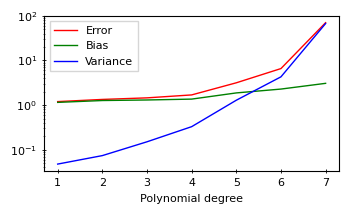
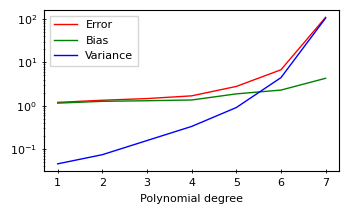
Ran src and project1 in their entirety

diff --git a/project1/src.py b/project1/src.py
@@ -87,7 +87,7 @@ class Regression:
 
     z_data : array_like, default: None
         If the function describing the data is 2D, the z_data parameter describe
-        the data along the z axis. 
+        the data along the z axis.
     '''
 
     def __init__(self, x_data, y_data, z_data=None):
@@ -420,10 +420,10 @@ class Regression:
         ax.plot(degree, error, label='Error', color='red')
         ax.plot(degree, bias, label='Bias', color='green')
         ax.plot(degree, variance, label='Variance', color='blue')
+        ax.set_xlabel('Polynomial degree')
         ax.set_yscale(scale)
         ax.legend()
 
-        ax.set_xlabel('Polynomial degree')
         fig.tight_layout()
         fig.savefig('figures/' + filename + '.png', bbox_inches='tight')
         fig.savefig('figures/' + filename + '.pdf', bbox_inches='tight')
@@ -481,6 +481,7 @@ class Regression:
                 y_pred_OLS = X_test @ beta_OLS 
                 scores_OLS[i, k] = np.sum((y_pred_OLS - y_test)**2) / np.size(y_pred_OLS)
 
+                # Sklearn's OLS results
                 X_sklearn = poly.fit_transform(X)
                 lin = LinearRegression(fit_intercept=False)
                 MSE_OLS_sklearn = cross_val_score(lin, X_sklearn, y, scoring='neg_mean_squared_error', cv=KFold_sklearn)
@@ -498,10 +499,12 @@ class Regression:
                 y_pred_Ridge = X_test @ beta_Ridge
                 scores_Ridge[l, k] = np.sum((y_pred_Ridge - y_test)**2) / np.size(y_pred_Ridge)
 
+                # Sklearn's Ridge results
                 ridge = Ridge(alpha=lambdas[l])
                 MSE_Ridge_sklearn = cross_val_score(ridge, X_sklearn, y, scoring='neg_mean_squared_error', cv=KFold_sklearn)
                 est_MSE_Ridge_sklearn[l] = np.mean(-MSE_Ridge_sklearn)
 
+                # Sklearn' Lasso results
                 lasso = Lasso(lambdas[l])
                 y_pred_Lasso = lasso.fit(X_train, y_train).predict(X_test)
                 scores_Lasso[l, k] = np.sum((y_pred_Lasso - y_test)**2) / np.size(y_pred_Lasso)
@@ -517,16 +520,16 @@ class Regression:
         fig, (ax1, ax2) = plt.subplots(2, 1, figsize=set_size(subplot=(2, 1)))
 
         ax1.set_title(f'{n_kfolds} KFolds')
-        ax1.plot(degrees, est_MSE_OLS, color='k', label=r'KFold$_\mathrm{OLS}$')
-        ax1.plot(degrees, est_MSE_OLS_sklearn, 'r--', label=r'Cross val. score')
+        ax1.plot(degrees, est_MSE_OLS, color='k', label=r'OLS')
+        ax1.plot(degrees, est_MSE_OLS_sklearn, 'k--')
         ax1.set_xlabel('Polynomial degree')
         ax1.set_yscale('log')
         ax1.legend()
 
-        ax2.plot(np.log10(lambdas), est_MSE_Ridge, color='k', label=r'KFolds$_\mathrm{Ridge}$')
-        ax2.plot(np.log10(lambdas), est_MSE_Ridge_sklearn, 'r--', label=r'Cross val. score$_\mathrm{Ridge}$')
-        ax2.plot(np.log10(lambdas), est_MSE_Lasso, color='b', label=r'KFolds$_\mathrm{Lasso}$')
-        ax2.plot(np.log10(lambdas), est_MSE_Lasso_sklearn, 'g--', label=r'Cross val. score$_\mathrm{Lasso}$')
+        ax2.plot(np.log10(lambdas), est_MSE_Ridge, color='r', label=r'Ridge')
+        ax2.plot(np.log10(lambdas), est_MSE_Ridge_sklearn, 'r--')
+        ax2.plot(np.log10(lambdas), est_MSE_Lasso, color='b', label=r'Lasso')
+        ax2.plot(np.log10(lambdas), est_MSE_Lasso_sklearn, 'b--')
         ax2.set_xlabel(r'$\log_{10}\lambda$')
         ax2.legend()
 
@@ -569,14 +572,14 @@ def frankes_function(x, y, add_noise=True):
     
 if __name__ == '__main__':
     np.random.seed(2018)
-    n = 100
+    n = 40
     x = np.linspace(-3, 3, n).reshape(-1, 1)
     y = np.exp(-x**2) + 1.5 * np.exp(-(x - 2)**2) + np.random.normal(0, 0.1, x.shape)
 
     fit = Regression(x, y)
     fit.OLS(20, identity_test=True)
     fit.plot_evolution('OLS', 'test')
-    fit.bias_variance_tradeoff(max_degree=15, n_bootstraps=100, data_dim=1)
+    fit.bias_variance_tradeoff(max_degree=13, n_bootstraps=100, data_dim=1)
     plt.show()
 
     # fig = plt.figure(figsize=(8, 6))

diff --git a/project1/project1.py b/project1/project1.py
@@ -11,11 +11,11 @@ X, Y = np.meshgrid(x, y)
 z = frankes_function(x, y)
 
 reg = Regression(x, y, z)
-# reg.OLS(5)
-# reg.plot_evolution('OLS', 'franke-test')
-# reg.ridge(-4, 4, 5, 1000)
-# reg.plot_evolution('ridge', 'franke-test')
-# reg.plot_evolution('lasso', 'franke-test')
-# reg.bias_variance_tradeoff(max_degree=7, n_bootstraps=100)
-reg.cross_validation(n_kfolds=7)
+reg.OLS(5)
+reg.plot_evolution('OLS', 'franke-test')
+reg.ridge(-4, 4, 5, 1000)
+reg.plot_evolution('ridge', 'franke-test')
+reg.plot_evolution('lasso', 'franke-test')
+reg.bias_variance_tradeoff(max_degree=7, n_bootstraps=100)
+reg.cross_validation(n_kfolds=10)
 plt.show()
